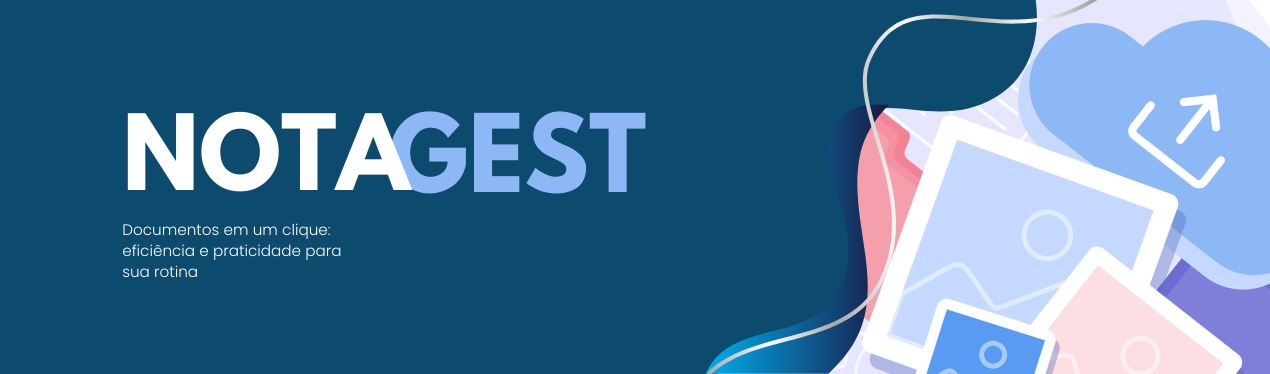
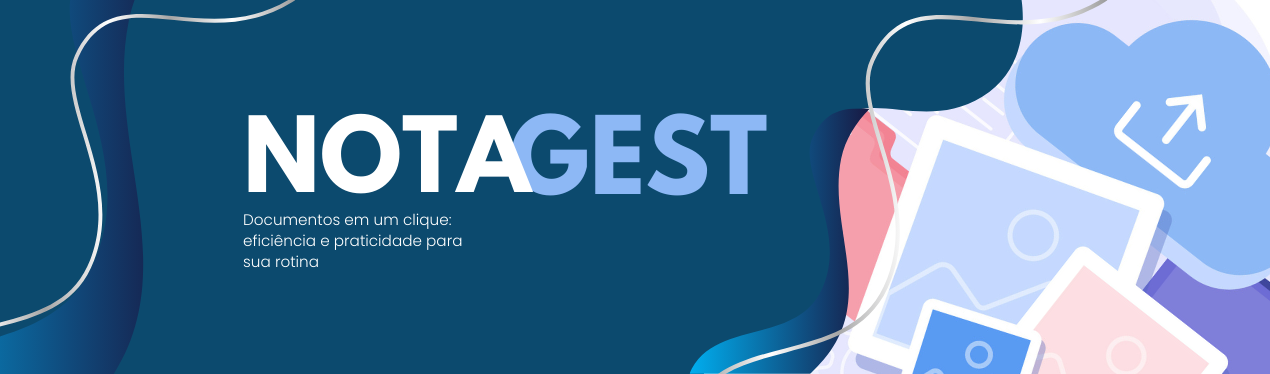
commit

diff --git a/src/components/Tips/Tips.js b/src/components/Tips/Tips.js
@@ -1,30 +1,29 @@
-// src/pages/Tips.js
-import React from 'react';
-import './Tips.css'; // Estilos para o componente
+import React, { useEffect } from 'react';
+import './Tips.css'; 
 
 const Tips = () => {
   const tipsData = [
     {
       title: "Construção de casas: documentação necessária",
       description: "Saiba quais são os documentos necessários para a construção de casas.",
-      link: "https://avt.com.br/construcao-de-casas-documentacao-necessaria/", // Substitua pelo link 
+      link: "https://avt.com.br/construcao-de-casas-documentacao-necessaria/",  
     },
     {
       title: "Dica 2",
       description: "Utilize cores diferentes para categorizar suas notas.",
-      link: "https://example.com/tip2", // Substitua pelo link 
+      link: "", 
     },
     {
       title: "Dica 3",
       description: "Revise suas notas regularmente para melhor retenção.",
-      link: "https://example.com/tip3", // Substitua pelo link 
+      link: "", 
     },
   ];
 
   return (
     <div className="tips-container" id="tips">
       {tipsData.map((tip, index) => (
-        <div key={index} className="tip-card">
+        <div key={index} className="tip-card" data-aos="fade-up">
           <h3>{tip.title}</h3>
           <p>{tip.description}</p>
           <a href={tip.link} target="_blank" rel="noopener noreferrer" className="tip-button">
@@ -37,3 +36,4 @@ const Tips = () => {
 };
 
 export default Tips;
+

diff --git a/public/index.html b/public/index.html
@@ -8,6 +8,7 @@
   <link rel="preconnect" href="https://fonts.gstatic.com" crossorigin>
   <link href="https://fonts.googleapis.com/css2?family=Open+Sans:ital,wght@0,300..800;1,300..800&display=swap"
     rel="stylesheet">
+    <link rel="stylesheet" href="https://cdnjs.cloudflare.com/ajax/libs/aos/2.3.1/aos.css" />
 
   <meta name="viewport" content="width=device-width, initial-scale=1" />
   <meta name="theme-color" content="#000000" />
@@ -20,7 +21,11 @@
 
 <body>
   <div id="root"></div> <!-- Ponto de entrada do React -->
-  <script src="%PUBLIC_URL%/index.js"></script> <!-- Script principal do React -->
+  <script src="%PUBLIC_URL%/index.js"></script> 
+  <script src="https://cdnjs.cloudflare.com/ajax/libs/aos/2.3.1/aos.js"></script>
+  <script>
+      AOS.init();
+  </script>
 </body>
 
 </html>

diff --git a/src/components/Carousel/Carousel.js b/src/components/Carousel/Carousel.js
@@ -2,7 +2,7 @@
 import React from 'react';
 import Slider from 'react-slick';
 import './Carousel.css';
-import Banner_1 from '../../assets/Banner_Teste.png';
+import Banner_1 from '../../assets/Banner_teste.png';
 import Banner_2 from '../../assets/Banner_02.png';
 
 const Carousel = () => {

diff --git a/src/components/Carousel/Carousel.css b/src/components/Carousel/Carousel.css
@@ -4,6 +4,7 @@
   
   .slick-slide img {
     width: 100%; 
-    height: auto; 
+    height: 350px; 
+    object-fit: cover;
   }
 

diff --git a/src/components/Tips/Tips.css b/src/components/Tips/Tips.css
@@ -1,4 +1,4 @@
-/* src/pages/Tips.css */
+
 .tips-container {
     display: flex;
     justify-content: space-around;
